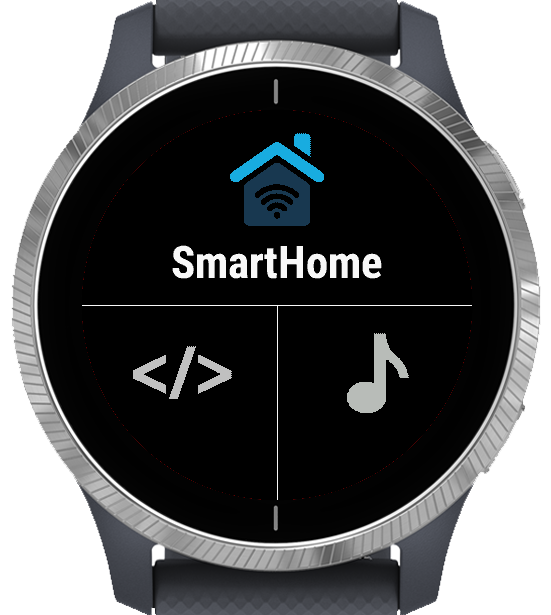
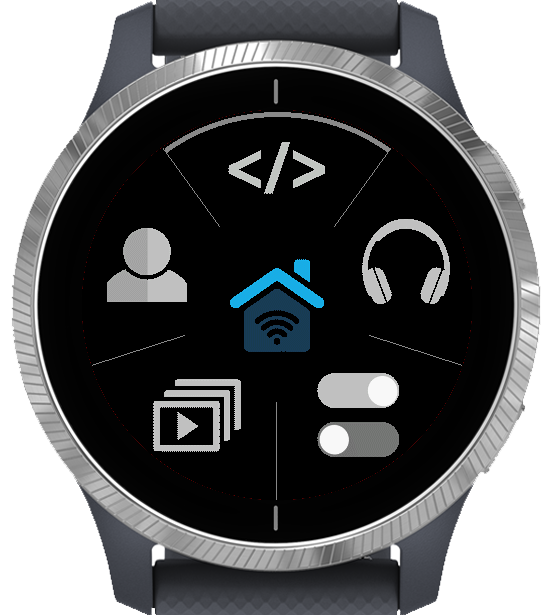
Update readme

diff --git a/README.md b/README.md
@@ -1,8 +1,25 @@
 # SmartPiHome
 
 The repo hosts the code for the SmartHome client for Garmin watches.
-The watch app allows basic music control and triggers 5 predefined actions.
+The app is published on the Garmin Connect IQ store here: https://apps.garmin.com/en-US/apps/c745527d-f2af-444e-ac28-4d82306ab708
 
-|Main|Music|Trigger|
+## Features of the App
+This are the basic features of the SmartHome client
+- Basic remote music control
+- Play existing Playlists
+- Triggers 5 predefined actions
+- Set remove switch state
+
+The server application is open source (https://github.com/dabastynator/SmartHome)
+
+This is a tutorial to setup the server on a raspberry pi: https://www.instructables.com/Smart-Home-by-Raspberry-Pi/
+
+## Screenshots
+
+|Main View|Basic Music Control|5 Triggers|
 |:----------------------:|:-------------------------:|:---------------------------:|
 |![](readme/main_r.png)  |  ![](readme/music_r.png)  |  ![](readme/trigger_r.png)  |
+
+|Play Playlist|Control Switch|
+|:----------------------:|:-------------------------:|
+|![](readme/playlist_r.png)  |  ![](readme/switches_r.png)  |
